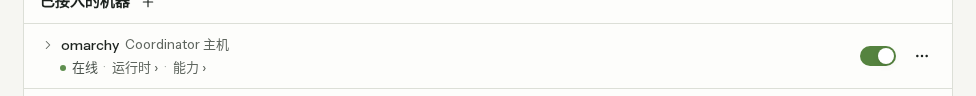
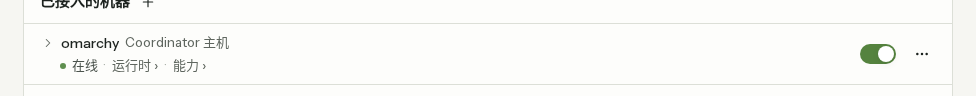
fix(web): put machine row padding on the 4px grid

diff --git a/apps/web/src/resources/machine-row.tsx b/apps/web/src/resources/machine-row.tsx
@@ -186,7 +186,7 @@ export function MachineRowView({
     >
       <div
         className={cn(
-          'relative flex min-w-0 items-center gap-3 px-4 py-2.5',
+          'relative flex min-w-0 items-center gap-3 px-4 py-2',
           'has-[[data-testid=machine-toggle]:focus-visible]:outline-2 has-[[data-testid=machine-toggle]:focus-visible]:-outline-offset-2 has-[[data-testid=machine-toggle]:focus-visible]:outline-(--focus-ring)',
         )}
       >
